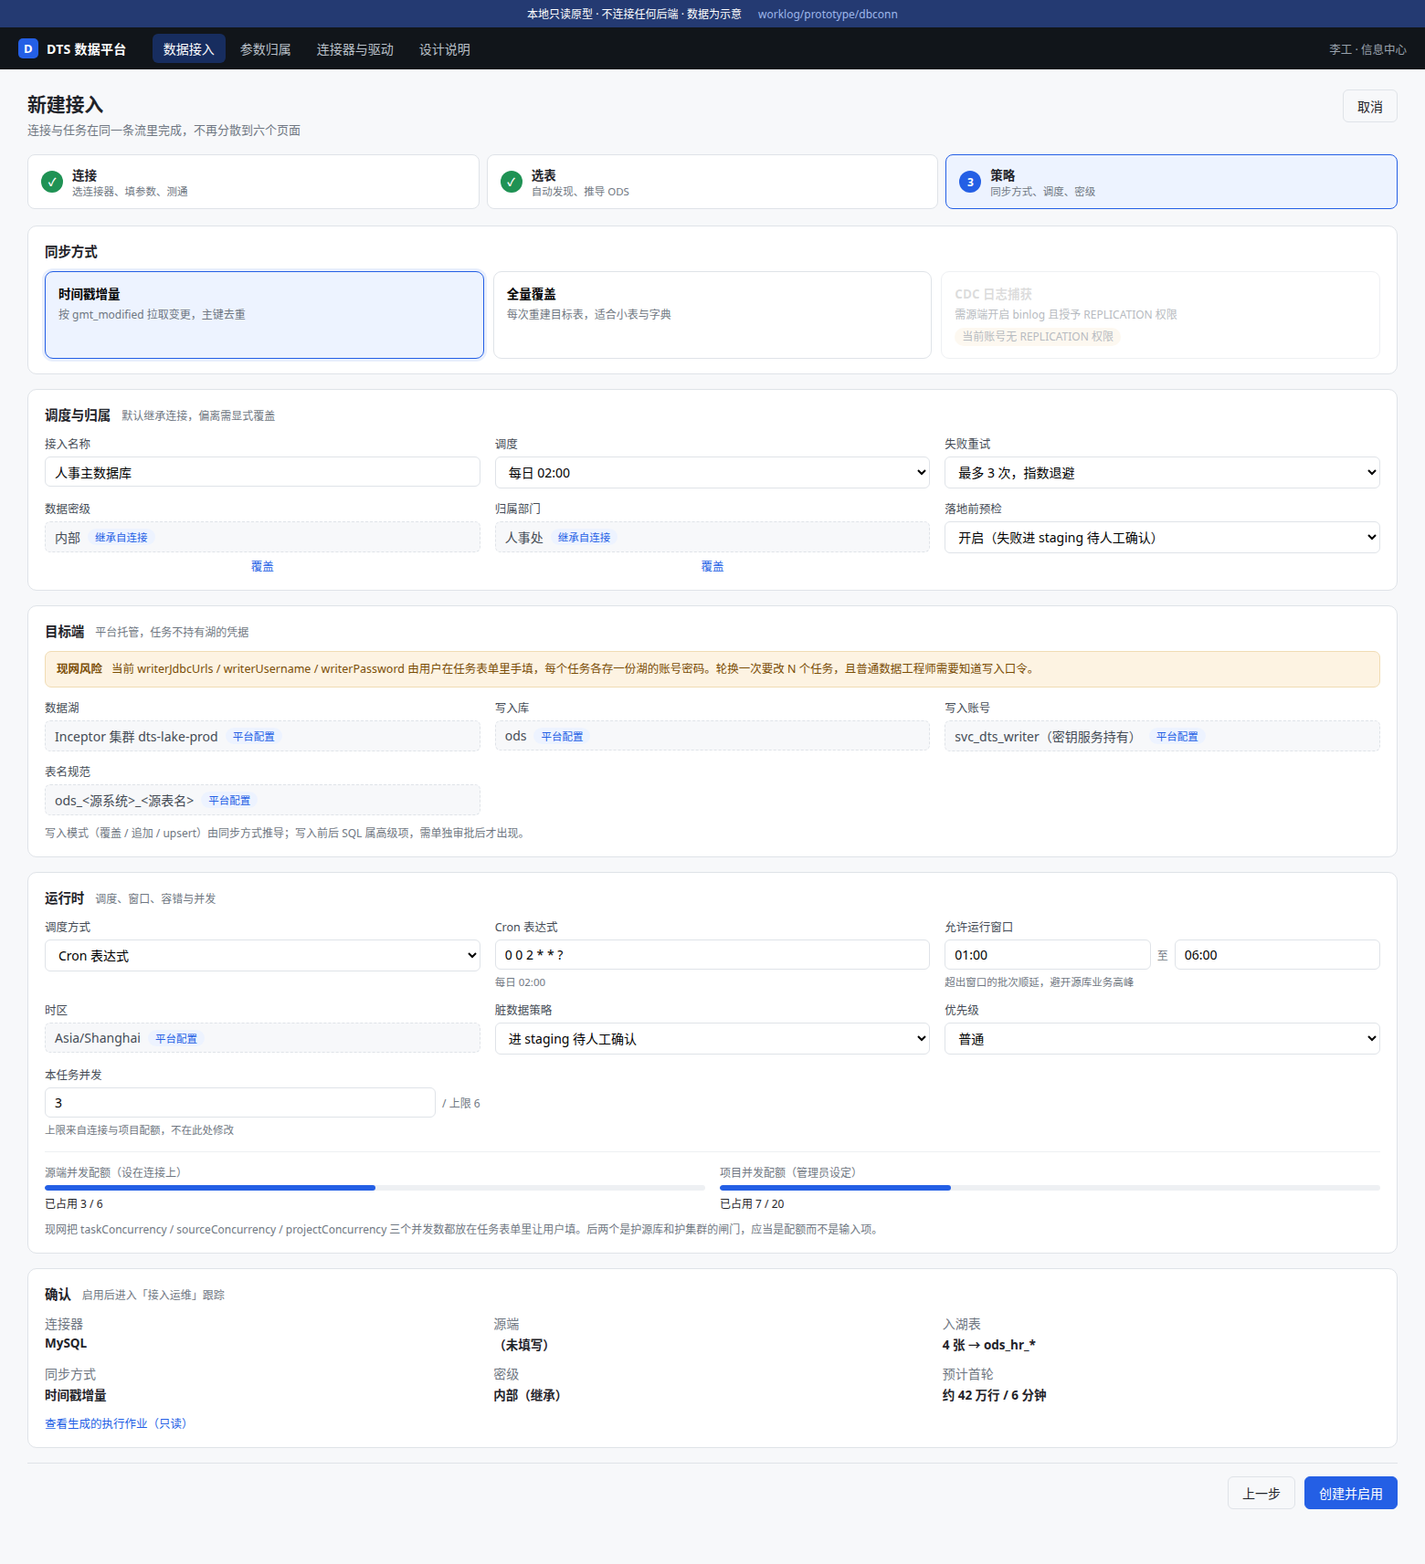
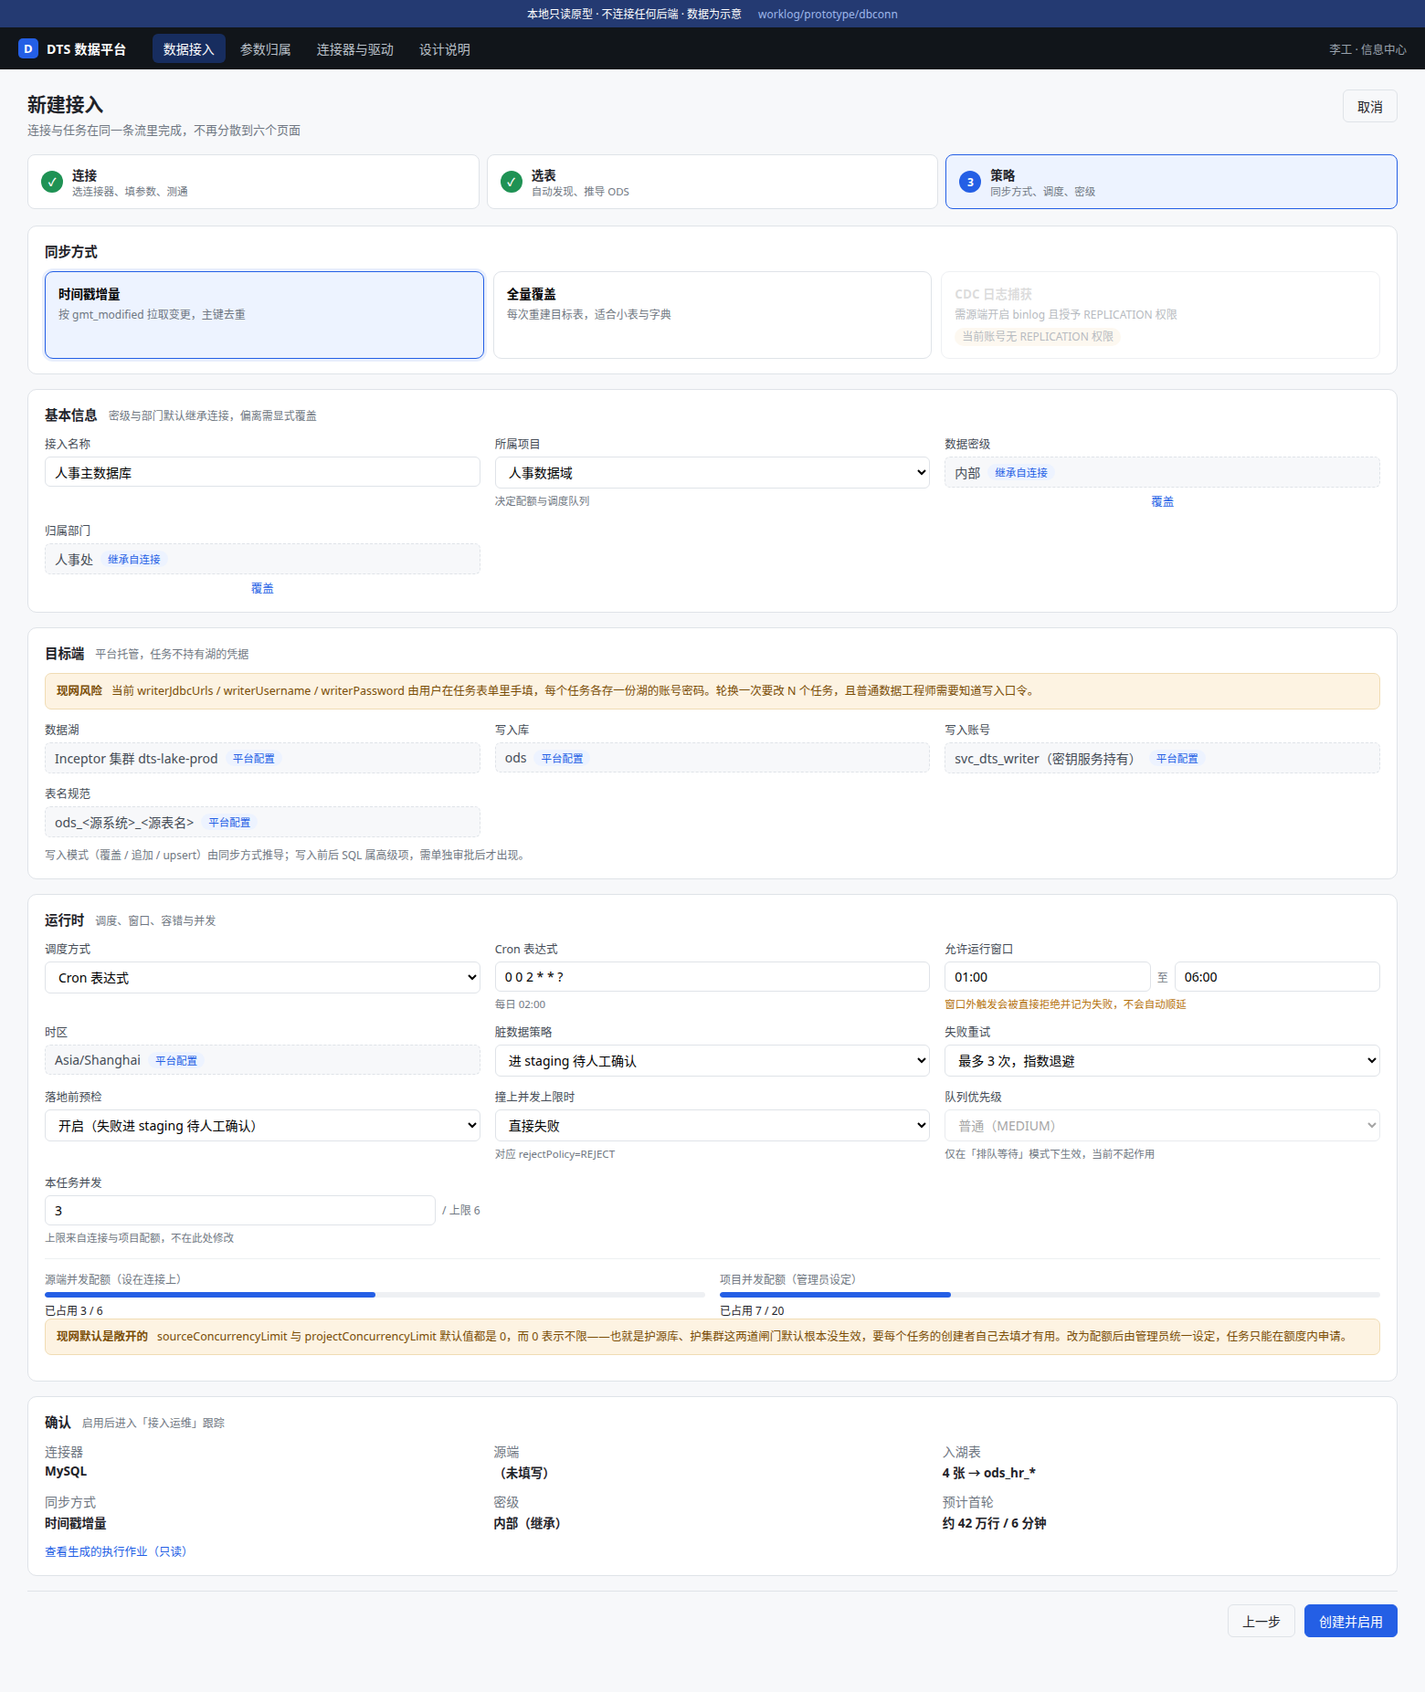
enhance:data model

diff --git a/worklog/prototype/dbconn/param-map.js b/worklog/prototype/dbconn/param-map.js
@@ -113,9 +113,14 @@ const PARAMS = [
 	/* ---- 资源与容错 ---- */
 	{ f: "priority", zh: "优先级", where: "policy", note: "" },
 	{ f: "taskConcurrency", zh: "任务并发", where: "policy", note: "在配额内申请" },
-	{ f: "sourceConcurrency", zh: "源端并发上限", where: "quota", note: "护源库的闸门，应设在连接上" },
-	{ f: "projectConcurrency", zh: "项目并发上限", where: "quota", note: "应由管理员在项目上设" },
-	{ f: "rejectPolicy", zh: "脏数据策略", where: "policy", note: "中止 / 跳过并记录 / 进 staging" },
+	{ f: "sourceConcurrency", zh: "来源并发上限", where: "quota", note: "⚠ 默认 0 = 不限，护源库的闸门默认没生效；应设在连接上由管理员统一维护", risk: true },
+	{ f: "projectConcurrency", zh: "项目并发上限", where: "quota", note: "⚠ 默认 0 = 不限，同上", risk: true },
+	{ f: "rejectPolicy", zh: "限流策略", where: "policy", note: "只有 REJECT / QUEUE 两个有效值：撞并发上限时直接失败，或排队等待（硬编码最多 30 秒）" },
+	{ f: "maxConcurrentRuns", zh: "任务并发上限", where: "policy", note: "同一任务在途执行数，默认 1" },
+	{ f: "priority", zh: "队列优先级", where: "policy", note: "⚠ 仅在 rejectPolicy=QUEUE 时决定抢槽次序；默认 REJECT 模式下只透传给 Airflow conf，不影响行为", risk: true },
+	{ f: "windowStart/windowEnd", zh: "执行窗口", where: "policy", note: "⚠ 窗口外触发直接抛异常拒绝，不是顺延——调度批次会直接失败且不自动补", risk: true },
+	{ f: "(readerSchema 覆盖)", zh: "Schema", where: "discover", note: "默认继承连接，仅在需要扫其它 Schema 时覆盖" },
+	{ f: "(表名筛选)", zh: "表名筛选", where: "discover", note: "SQL LIKE，在源端下推以减少元数据扫描量" },
 
 	/* ---- 编排与下游 ---- */
 	{ f: "airflowEnabled", zh: "启用 Airflow", where: "platform", note: "调度实现细节，不该暴露给用户" },
@@ -129,6 +134,47 @@ const PARAMS = [
 	{ f: "jobConfig", zh: "作业配置", where: "drop", note: "又一个兜底 JSON", json: true },
 ];
 
+
+/* ------------------------------------------------------------------ */
+/* 屏幕对照：现网某一屏的字段逐个落到原型哪里                            */
+/* behaviour 一栏均已在后端代码中核实，标注了出处                        */
+/* ------------------------------------------------------------------ */
+
+const SCREEN_MAPS = [
+	{
+		screen: "数据入湖配置 · 数据源",
+		path: "/explore/etl/transform → 新建 → 数据源",
+		rows: [
+			{ label: "数据源连接", now: "下拉选已建好的数据源", behaviour: "任务与连接是两个对象，必须先去别的菜单建好", to: "向导① 选连接器并就地填参数", tone: "ok" },
+			{ label: "Reader 类型", now: "禁用输入框「将根据数据源自动生成」", behaviour: "完全由连接器决定，用户无法也不需要干预", to: "不出现在界面；连接器 schema 内部决定", tone: "muted", note: "占了一个格子却不承载任何决策" },
+			{ label: "Schema（可选）", now: "文本框，例如 public", behaviour: "决定去源端哪个 schema 找表", to: "向导② 发现范围 · 继承自连接，可覆盖", tone: "ok" },
+			{ label: "表名筛选（可选）", now: "SQL LIKE，例如 ods_%", behaviour: "在源端下推，减少元数据扫描量", to: "向导② 发现范围 · 表名筛选", tone: "ok" },
+			{ label: "入湖表选择", now: "全部表（默认）/ 手动选择", behaviour: "决定 readerTables 怎么生成", to: "向导② 手动勾选 / 按规则匹配", tone: "ok" },
+			{ label: "排除表（可选）", now: "换行或逗号分隔", behaviour: "从发现结果里剔除", to: "向导② 发现范围 · 排除表", tone: "ok" },
+			{ label: "Reader 字段", now: "逗号分隔，默认 *", behaviour: "写入 Addax reader 的 column", to: "向导② 逐表高级 · 列裁剪（默认全列）", tone: "ok" },
+			{ label: "Reader 过滤条件", now: "例如 status = 1", behaviour: "拼进 WHERE", to: "向导② 逐表高级 · 过滤条件", tone: "ok" },
+			{ label: "Reader 查询 SQL", now: "每行一条", behaviour: "有值时整表读取被替换", to: "向导② 逐表高级 · 自定义查询 SQL（标为逃生口）", tone: "warn" },
+			{ label: "Reader 扩展配置 JSON", now: "占位符 {\"splitPk\":\"id\"}", behaviour: "⚠ 原样成为 Addax reader parameter（AddaxJobService:362），且 {...base,...extra} 会静默覆盖上方的字段与过滤条件（ingestionFormHelpers:571）", to: "连接器 schema「读取性能」分组 + 受控逃生口", tone: "bad" },
+			{ label: "目标数据源", now: "下拉，数仓 (biadmin)（推荐）", behaviour: "湖是唯一目标，却做成了每任务可选", to: "向导③ 目标端 · 平台托管只读", tone: "bad" },
+			{ label: "目标表前缀", now: "从数据源自动推算，可手动修改", behaviour: "生成 ODS 表名", to: "向导③ 目标端 · 表名规范（平台配置）", tone: "muted" },
+		],
+	},
+	{
+		screen: "数据入湖配置 · 运行治理策略（可选）",
+		path: "/explore/etl/transform → 新建 → 运行治理策略",
+		rows: [
+			{ label: "任务并发上限", now: "默认 1", behaviour: "同一任务「运行中/排队中」执行数上限（IngestionTaskService:1876）", to: "向导③ 运行时 · 本任务并发", tone: "ok" },
+			{ label: "来源并发上限", now: "0 表示不限", behaviour: "⚠ 默认 0 = 闸门不生效。同一数据源上所有任务的在途数（:1882）——这是护源库的唯一防线", to: "配额：设在连接上，由管理员维护", tone: "bad" },
+			{ label: "项目并发上限", now: "0 表示不限", behaviour: "⚠ 同上，默认不生效（:1892）", to: "配额：设在项目上", tone: "bad" },
+			{ label: "项目标识", now: "例如 project:patent", behaviour: "上面配额的分组键；留空回退 dbtDagSelector，再回退 \"default\"（:1855）", to: "向导③ 基本信息 · 所属项目（下拉，不手打）", tone: "ok" },
+			{ label: "队列优先级", now: "MEDIUM", behaviour: "⚠ 权重 HIGH/P0/CRITICAL/URGENT=3、MEDIUM=2、LOW/P2=1，但仅在 QUEUE 模式抢槽位时生效（:2101）；REJECT 模式下只透传给 Airflow conf", to: "向导③ 运行时 · 非排队模式下置灰并说明无效", tone: "warn" },
+			{ label: "限流策略", now: "REJECT", behaviour: "⚠ 只有 REJECT / QUEUE 两个有效值。QUEUE 最多等 30 秒（GOVERNANCE_QUEUE_MAX_WAIT 硬编码，2 秒轮询），超时仍失败（:90、:623）", to: "向导③ 运行时 · 撞上并发上限时", tone: "warn" },
+			{ label: "执行窗口开始 / 结束", now: "HH:mm，例如 01:00 / 06:00", behaviour: "⚠ 窗口外触发直接抛异常拒绝，不是顺延（:1031）；支持跨零点", to: "向导③ 运行时 · 允许运行窗口，hint 明确写「不会自动顺延」", tone: "bad" },
+			{ label: "执行窗口时区", now: "Asia/Shanghai", behaviour: "非法值静默回退默认（:1834）", to: "向导③ 运行时 · 时区（平台配置）", tone: "muted" },
+		],
+	},
+];
+
 const WHERE_META = {
 	connector: { label: "连接器 schema", tone: "info", desc: "建连接时填一次，任务侧继承" },
 	discover: { label: "向导②选表", tone: "ok", desc: "自动推导为主，可逐表覆盖" },
@@ -138,6 +184,6 @@ const WHERE_META = {
 	drop: { label: "应删除", tone: "bad", desc: "裸 JSON 兜底或概念重复" },
 };
 
-window.PARAM_MAP = { PARAMS, WHERE_META };
+window.PARAM_MAP = { PARAMS, WHERE_META, SCREEN_MAPS };
 
 })();

diff --git a/worklog/prototype/dbconn/wizard.js b/worklog/prototype/dbconn/wizard.js
@@ -187,6 +187,42 @@ let rerenderHook = () => {};
 
 const odsName = (t) => `ods_hr_${t.name.replace(/^hr_/, "")}`;
 
+
+/** 发现范围 —— 对应现网「数据源」区的 Schema / 表名筛选 / 排除表 */
+function renderDiscoveryScope() {
+	const connector = window.PROTO.connectorByKey(WIZ.connectorKey);
+	const schemaFromConn = WIZ.values.schema || WIZ.values.database || "hr_prod";
+
+	return el("section", { class: "panel" }, [
+		el("div", { class: "panel-head" }, [
+			el("h3", {}, "发现范围"),
+			el("span", { class: "panel-note" }, "决定去源端扫哪些表；留空即全部"),
+		]),
+		el("div", { class: "form-grid" }, [
+			el("div", { class: "form-item" }, [
+				el("label", { class: "form-label" }, "Schema"),
+				el("div", { class: "inherited" }, [
+					el("span", {}, schemaFromConn),
+					el("span", { class: "chip chip-inherit" }, "继承自连接"),
+				]),
+				el("button", { class: "link-btn", type: "button" }, "改扫其它 Schema"),
+			]),
+			el("div", { class: "form-item" }, [
+				el("label", { class: "form-label" }, "表名筛选"),
+				el("input", { class: "ctl", placeholder: "SQL LIKE，如 hr_%（可留空）" }),
+				el("div", { class: "form-hint" }, "在源端下推，减少元数据扫描量"),
+			]),
+			el("div", { class: "form-item" }, [
+				el("label", { class: "form-label" }, "排除表"),
+				el("input", { class: "ctl", placeholder: "换行或逗号分隔，如 tmp_%, audit_log" }),
+				el("div", { class: "form-hint" }, "默认已排除临时表与备份表" ),
+			]),
+		]),
+		el("div", { class: "foot-note" },
+			`Reader 类型由「${connector ? connector.name : "所选连接器"}」自动决定，不需要用户选择——现网这里是一个禁用输入框，占了一个格子却不承载任何决策。`),
+	]);
+}
+
 function renderTableList(rerender) {
 	const tables = ensureTables();
 	const rows = tables.map((t) => el("tr", {
@@ -371,9 +407,12 @@ function renderStepTables(rerender) {
 		return el("div", { class: "step-body" }, el("div", { class: "empty" }, "正在读取源端结构…"));
 	}
 	rerenderHook = rerender;
-	return el("div", { class: "step-body split" }, [
-		renderTableList(rerender),
-		renderOdsPreview(),
+	return el("div", {}, [
+		renderDiscoveryScope(),
+		el("div", { class: "step-body split" }, [
+			renderTableList(rerender),
+			renderOdsPreview(),
+		]),
 	]);
 }
 
@@ -518,7 +557,7 @@ function renderRuntimePanel() {
 					el("span", { class: "suffix" }, "至"),
 					el("input", { class: "ctl", value: "06:00" }),
 				]),
-				el("div", { class: "form-hint" }, "超出窗口的批次顺延，避开源库业务高峰"),
+				el("div", { class: "form-hint warn-text" }, "窗口外触发会被直接拒绝并记为失败，不会自动顺延"),
 			]),
 			el("div", { class: "form-item" }, [
 				el("label", { class: "form-label" }, "时区"),
@@ -549,10 +588,27 @@ function renderRuntimePanel() {
 				]),
 			]),
 			el("div", { class: "form-item" }, [
-				el("label", { class: "form-label" }, "优先级"),
-				el("select", { class: "ctl" }, [
-					el("option", {}, "普通"), el("option", {}, "高"), el("option", {}, "低"),
+				el("label", { class: "form-label" }, "撞上并发上限时"),
+				el("select", {
+					class: "ctl",
+					onchange: (e) => { WIZ.policy.rejectPolicy = e.target.selectedIndex === 1 ? "QUEUE" : "REJECT"; rerenderHook(); },
+				}, [
+					el("option", { selected: (WIZ.policy.rejectPolicy || "REJECT") === "REJECT" }, "直接失败"),
+					el("option", { selected: WIZ.policy.rejectPolicy === "QUEUE" }, "排队等待"),
 				]),
+				(WIZ.policy.rejectPolicy === "QUEUE")
+					? el("div", { class: "form-hint warn-text" }, "现网最多只等 30 秒（硬编码），超时仍失败")
+					: el("div", { class: "form-hint" }, "对应 rejectPolicy=REJECT"),
+			]),
+			el("div", { class: "form-item" }, [
+				el("label", { class: "form-label" }, "队列优先级"),
+				el("select", { class: "ctl", disabled: WIZ.policy.rejectPolicy !== "QUEUE" }, [
+					el("option", { selected: true }, "普通（MEDIUM）"), el("option", {}, "高（HIGH）"), el("option", {}, "低（LOW）"),
+				]),
+				el("div", { class: "form-hint" },
+					WIZ.policy.rejectPolicy === "QUEUE"
+						? "决定多个任务抢同一槽位时谁先走"
+						: "仅在「排队等待」模式下生效，当前不起作用"),
 			]),
 			el("div", { class: "form-item" }, [
 				el("label", { class: "form-label" }, "本任务并发"),
@@ -575,8 +631,10 @@ function renderRuntimePanel() {
 				el("span", { class: "small" }, "已占用 7 / 20"),
 			]),
 		]),
-		el("div", { class: "foot-note" },
-			"现网把 taskConcurrency / sourceConcurrency / projectConcurrency 三个并发数都放在任务表单里让用户填。后两个是护源库和护集群的闸门，应当是配额而不是输入项。"),
+		el("div", { class: "inline-alert warn" }, [
+			el("b", {}, "现网默认是敞开的"),
+			el("span", {}, "sourceConcurrencyLimit 与 projectConcurrencyLimit 默认值都是 0，而 0 表示不限——也就是护源库、护集群这两道闸门默认根本没生效，要每个任务的创建者自己去填才有用。改为配额后由管理员统一设定，任务只能在额度内申请。"),
+		]),
 	]);
 }
 

diff --git a/worklog/prototype/dbconn/views.js b/worklog/prototype/dbconn/views.js
@@ -420,7 +420,37 @@ function renderNotes() {
 /* 五、参数归属                                                        */
 /* ---------------------------------------------------------------- */
 
-const PM = { filter: "" };
+const PM = { filter: "", view: "fields" };
+
+
+/** 屏幕对照：现网某一屏 → 原型落点，逐字段 */
+function renderScreenMaps() {
+	const { SCREEN_MAPS } = window.PARAM_MAP;
+
+	return V("div", { class: "screen-maps" }, SCREEN_MAPS.map((sm) => V("section", { class: "panel" }, [
+		V("div", { class: "panel-head" }, [
+			V("h3", {}, sm.screen),
+			V("span", { class: "panel-note" }, sm.path),
+		]),
+		V("div", { class: "table-scroll" }, V("table", { class: "grid tight" }, [
+			V("thead", {}, V("tr", {}, [
+				V("th", { style: "width:150px" }, "现网字段"),
+				V("th", { style: "width:190px" }, "界面呈现"),
+				V("th", {}, "实际行为（已核实）"),
+				V("th", { style: "width:250px" }, "原型落点"),
+			])),
+			V("tbody", {}, sm.rows.map((r) => V("tr", { class: r.tone === "bad" ? "bad-row" : "" }, [
+				V("td", {}, [
+					V("b", {}, r.label),
+					r.note ? V("div", { class: "muted small" }, r.note) : null,
+				]),
+				V("td", { class: "muted small" }, r.now),
+				V("td", { class: "small" }, r.behaviour),
+				V("td", {}, V("span", { class: `chip chip-${r.tone}` }, r.to)),
+			]))),
+		])),
+	])));
+}
 
 function renderParamMap(nav) {
 	const { PARAMS, WHERE_META } = window.PARAM_MAP;
@@ -468,12 +498,23 @@ function renderParamMap(nav) {
 					"现网数据源表单 22 个字段 + 入湖任务表单 64 个字段，逐个归位。点击下方分类可筛选。"),
 			]),
 		]),
-		legend,
-		V("div", { class: "inline-alert warn" }, [
+		V("div", { class: "seg" }, [
+			V("button", {
+				class: `seg-item${PM.view !== "screens" ? " active" : ""}`,
+				onclick: () => { PM.view = "fields"; nav("params"); },
+			}, "按字段"),
+			V("button", {
+				class: `seg-item${PM.view === "screens" ? " active" : ""}`,
+				onclick: () => { PM.view = "screens"; nav("params"); },
+			}, "按现网屏幕对照"),
+		]),
+		PM.view === "screens" ? renderScreenMaps() : null,
+		PM.view === "screens" ? null : legend,
+		PM.view === "screens" ? null : V("div", { class: "inline-alert warn" }, [
 			V("b", {}, "最需要先处理的一组"),
 			V("span", {}, "writerJdbcUrls / writerUsername / writerPassword —— 用户建入湖任务时要手填数据湖的地址、账号和密码，且每个任务各存一份。湖是唯一目标，这三项根本不该出现在任务表单里。"),
 		]),
-		V("div", { class: "table-scroll" }, V("table", { class: "grid" }, [
+		PM.view === "screens" ? null : V("div", { class: "table-scroll" }, V("table", { class: "grid" }, [
 			V("thead", {}, V("tr", {}, ["字段", "含义", "现状", "归属", "说明"].map((h) => V("th", {}, h)))),
 			V("tbody", {}, rows),
 		])),

diff --git a/worklog/prototype/dbconn/styles.css b/worklog/prototype/dbconn/styles.css
@@ -452,3 +452,20 @@ table.grid tr.bad-row td { background: #fffafa; }
 }
 .raw-msg.bad { background: var(--bad-soft); color: var(--bad); }
 .raw-msg.warn { background: var(--warn-soft); color: var(--warn); }
+
+/* ---------------- 视图切换 ---------------- */
+
+.seg {
+	display: inline-flex; border: 1px solid var(--border); border-radius: 8px;
+	overflow: hidden; margin-bottom: 16px; background: var(--surface);
+}
+.seg-item {
+	background: none; border: 0; padding: 7px 16px; color: var(--muted);
+	font-size: 12.5px; transition: all .15s;
+}
+.seg-item + .seg-item { border-left: 1px solid var(--border); }
+.seg-item:hover { color: var(--text); background: var(--surface-alt); }
+.seg-item.active { background: var(--blue); color: #fff; font-weight: 600; }
+
+.screen-maps table.grid td { vertical-align: top; }
+.screen-maps table.grid b { font-size: 12.5px; }

diff --git a/worklog/prototype/dbconn/README.md b/worklog/prototype/dbconn/README.md
@@ -41,7 +41,8 @@ http://127.0.0.1:4174/dbconn/
 | 向导 ② 选表 | 自动发现、增量列识别、ODS 表名与字段映射推导 | [prototype-wizard-tables.png](./prototype-wizard-tables.png) |
 | 向导 ③ 策略 | 同步方式、调度、继承/覆盖、生成的 Addax 作业只读预览 | [prototype-wizard-policy.png](./prototype-wizard-policy.png) |
 | 接入详情 / 运维 | 概览、运行历史、结构漂移、落地预检、变更记录、配置 | [prototype-detail.png](./prototype-detail.png) |
-| 参数归属 | 现网 86 个字段逐个归位，可按归属筛选 | [prototype-params.png](./prototype-params.png) |
+| 参数归属 · 按字段 | 现网 86 个字段逐个归位，可按归属筛选 | [prototype-params.png](./prototype-params.png) |
+| 参数归属 · 按现网屏幕对照 | 「数据源」「运行治理策略」两屏逐字段对照，含已核实的真实行为 | [prototype-screen-map.png](./prototype-screen-map.png) |
 | 连接器与驱动 | 下沉为系统管理，"配置字段数"来自各连接器自己的 schema | — |
 | 设计说明 | 六个决策 + 现状对照 + 本原型未处理的问题 | [prototype-notes.png](./prototype-notes.png) |
 

diff --git a/AGENTS.md b/AGENTS.md
@@ -74,7 +74,7 @@ When the user types `/graphify`, invoke the Skill tool with `skill: "graphify"` 
 <!-- gitnexus:start -->
 # GitNexus — Code Intelligence
 
-This project is indexed by GitNexus as **s10-stack** (163397 symbols, 339413 relationships, 300 execution flows). Use the GitNexus MCP tools to understand code, assess impact, and navigate safely.
+This project is indexed by GitNexus as **s10-stack** (163874 symbols, 340666 relationships, 300 execution flows). Use the GitNexus MCP tools to understand code, assess impact, and navigate safely.
 
 > If any GitNexus tool warns the index is stale, run `npx gitnexus analyze` in terminal first.
 

diff --git a/CLAUDE.md b/CLAUDE.md
@@ -26,7 +26,7 @@ opt.map(V::something).orElse(defaultValue);
 <!-- gitnexus:start -->
 # GitNexus — Code Intelligence
 
-This project is indexed by GitNexus as **s10-stack** (163397 symbols, 339413 relationships, 300 execution flows). Use the GitNexus MCP tools to understand code, assess impact, and navigate safely.
+This project is indexed by GitNexus as **s10-stack** (163874 symbols, 340666 relationships, 300 execution flows). Use the GitNexus MCP tools to understand code, assess impact, and navigate safely.
 
 > If any GitNexus tool warns the index is stale, run `npx gitnexus analyze` in terminal first.
 
